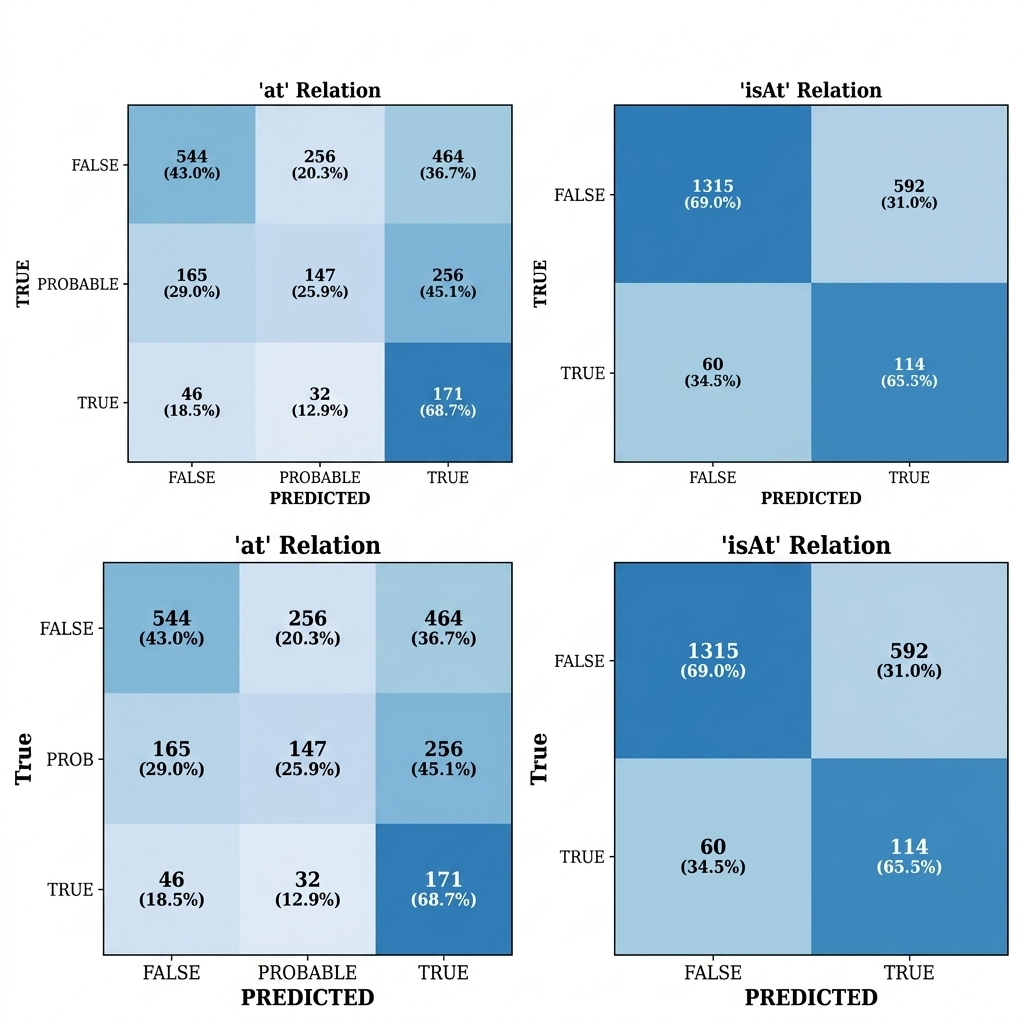
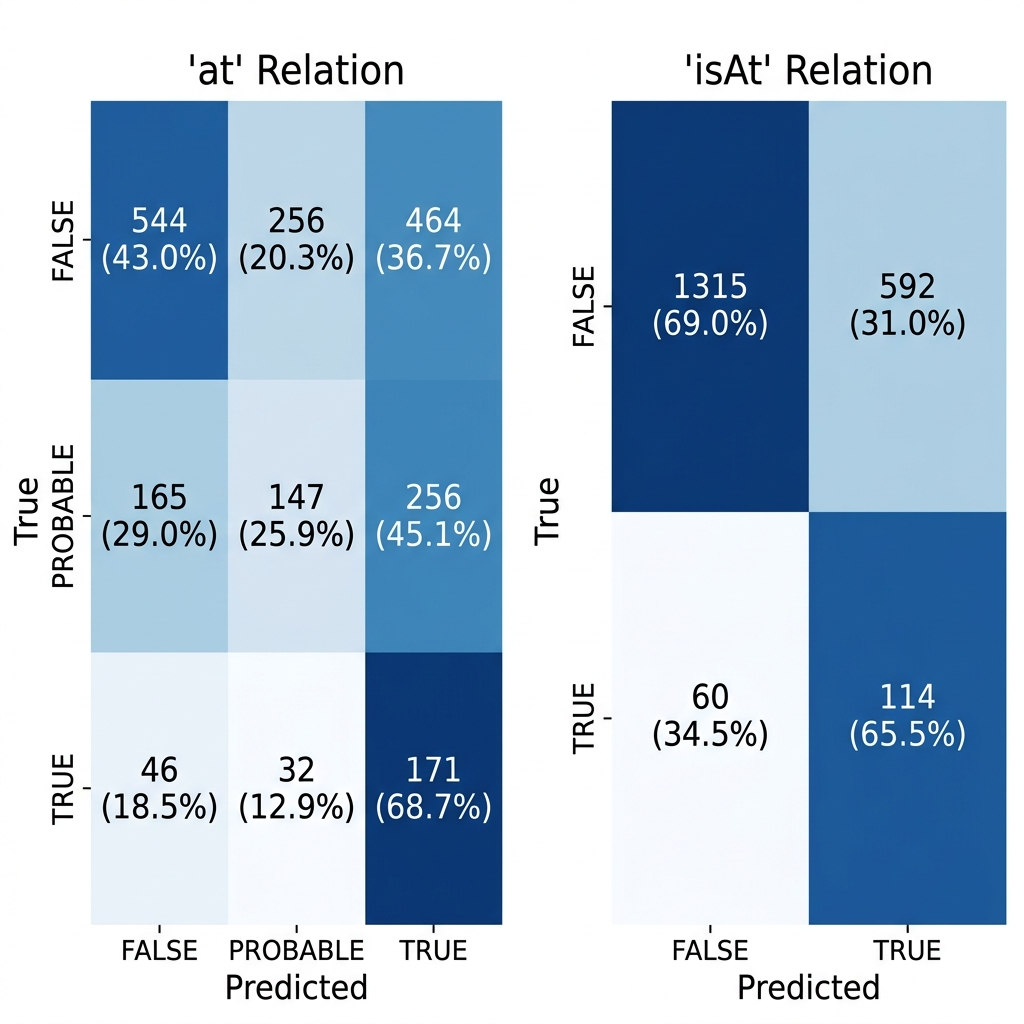
v24: Camera-ready — fix abstract 4.4->4.3%, titlerunning header, acknowledgement wording, rounding disclaimers on all tables, Table 7 epoch explanation, regenerated fig3/fig6 without embedded titles, forward-dated ref note

diff --git a/paper/main.tex b/paper/main.tex
@@ -1,5 +1,5 @@
-% MHIPEX: Multilingual Historical Person-Place Relation Extraction
-% CLEF 2026 Working Notes Ã¢â‚¬â€ LNCS Format
+% MHIPEX: Multilingual Historical Person-Place Relation Extraction
+% CLEF 2026 Working Notes --- LNCS Format
 \documentclass[runningheads]{llncs}
 \usepackage[T1]{fontenc}
 \usepackage{graphicx}
@@ -12,6 +12,7 @@
 \begin{document}
 
 \title{MHIPEX: A Calibrated Transformer Ensemble for\\Multilingual Person--Place Relation Extraction\\in Historical Newspapers}
+\titlerunning{MHIPEX: Calibrated Ensemble for Historical RE}
 
 \author{Aman Jaiswal \and Sarika Jain}
 \authorrunning{Jaiswal and Jain}
@@ -20,7 +21,7 @@
 \maketitle
 
 \begin{abstract}
-This paper presents MHIPEX, a general knowledge-aware framework for person--place relation extraction from multilingual historical newspapers. Evaluated in the context of the CLEF HIPE-2026 shared task, MHIPEX introduces a Relation-Specific Language-Adaptive Ensemble (RLAE) that learns independent mixing weights for each relation type (spatial \texttt{at} vs.\ temporal \texttt{isAt}) and each source language, motivated by the empirical observation that the relative strengths of historically pre-trained BERT (hmBERT) and XLM-RoBERTa differ across both dimensions. RLAE is combined with enriched input representations, multi-sample dropout with dual pooling, class-weighted training, and post-hoc threshold calibration. A Knowledge Graph augmentation experiment reveals a fundamental dichotomy between KG sources: GeoNames maximises spatial recall (\texttt{at} recall +1.2\,pp over text-only) while Wikidata yields the strongest overall MR gain (+0.002 MR), yet every KG source degrades temporal event detection (\texttt{isAt} recall $-$2.0\,pp for GeoNames), directly motivating the decoupled RLAE design. On the HIPE-2026 sandbox development data, MHIPEX with RLAE achieves a macro-recall of 0.5767 (95\% CI: [0.548, 0.604]), a +35.1\% relative improvement over a vanilla mBERT baseline (+4.4\% relative over hmBERT alone) and +0.011 MR over the fixed-weight ensemble. Cross-dataset validation on newspaper v1.0 yields a macro-recall of 0.588, confirming the robustness of the framework for broader multilingual historical relation extraction tasks.
+This paper presents MHIPEX, a general knowledge-aware framework for person--place relation extraction from multilingual historical newspapers. Evaluated in the context of the CLEF HIPE-2026 shared task, MHIPEX introduces a Relation-Specific Language-Adaptive Ensemble (RLAE) that learns independent mixing weights for each relation type (spatial \texttt{at} vs.\ temporal \texttt{isAt}) and each source language, motivated by the empirical observation that the relative strengths of historically pre-trained BERT (hmBERT) and XLM-RoBERTa differ across both dimensions. RLAE is combined with enriched input representations, multi-sample dropout with dual pooling, class-weighted training, and post-hoc threshold calibration. A Knowledge Graph augmentation experiment reveals a fundamental dichotomy between KG sources: GeoNames maximises spatial recall (\texttt{at} recall +1.2\,pp over text-only) while Wikidata yields the strongest overall MR gain (+0.002 MR), yet every KG source degrades temporal event detection (\texttt{isAt} recall $-$2.0\,pp for GeoNames), directly motivating the decoupled RLAE design. On the HIPE-2026 sandbox development data, MHIPEX with RLAE achieves a macro-recall of 0.5767 (95\% CI: [0.548, 0.604]), a +35.1\% relative improvement over a vanilla mBERT baseline (+4.3\% relative over hmBERT alone) and +0.011 MR over the fixed-weight ensemble. Cross-dataset validation on newspaper v1.0 yields a macro-recall of 0.588, confirming the robustness of the framework for broader multilingual historical relation extraction tasks.
 \end{abstract}
 
 \keywords{Historical NLP \and Relation Extraction \and Multilingual Transformers \and Knowledge Graphs \and CLEF HIPE-2026}
@@ -375,7 +376,7 @@ Table~\ref{tab:lang} disaggregates performance by language.
 
 \begin{table}[t]
 \centering
-\caption{Per-language performance of the MHIPEX fixed-$\beta$ ensemble ($\beta=0.60$). RLAE per-language weights are reported separately in Table~\ref{tab:rlae}.}
+\caption{Per-language performance of the MHIPEX fixed-$\beta$ ensemble ($\beta=0.60$). RLAE per-language weights are reported separately in Table~\ref{tab:rlae}. Displayed values are rounded to three decimal places; MR is computed from unrounded per-relation recalls.}
 \label{tab:lang}
 \begin{tabular}{lrccc}
 \toprule
@@ -453,7 +454,7 @@ Beyond architectural components, we explicitly validate two core methodological 
 
 \begin{table}[t]
 \centering
-\caption{Comparison of loss functions on the hmBERT encoder (independent runs, 20 epochs each). Weighted Cross-Entropy yields the strongest overall macro-recall. All differences are within the $\pm$0.003 run-to-run variance of the system, so results are interpreted directionally rather than as statistically significant conclusions. Note: MR values here are from standalone experiments and may differ from the cumulative ablation in Table~\ref{tab:ablation} due to independent random initialization.}
+\caption{Comparison of loss functions on the hmBERT encoder (independent runs, 20 epochs with early stopping). Weighted Cross-Entropy yields the strongest overall macro-recall. All differences are within the $\pm$0.003 run-to-run variance of the system, so results are interpreted directionally rather than as statistically significant conclusions. Note: MR values here are from standalone 20-epoch experiments and differ from the cumulative ablation in Table~\ref{tab:ablation} (which uses 30~max epochs per Table~\ref{tab:hyper}) due to independent random initialization and the shorter training schedule.}
 \label{tab:loss_ablation}
 \begin{tabular}{lccc}
 \toprule
@@ -502,7 +503,7 @@ Table~\ref{tab:rlae} reports the per-language mixing weights learned by RLAE (Eq
 
 \begin{table}[t]
 \centering
-\caption{Learned RLAE parameters per language. $\beta^{(r)}_\ell$ denotes the hmBERT weight for relation $r$ in language $\ell$. We note that English weights are estimated on a very small sample (151 development pairs) and should be interpreted with appropriate caution until validated on additional datasets.}
+\caption{Learned RLAE parameters per language. $\beta^{(r)}_\ell$ denotes the hmBERT weight for relation $r$ in language $\ell$. Displayed values are rounded to four decimal places; MR is computed from unrounded per-relation recalls. English weights are estimated on a very small sample (151 development pairs) and should be interpreted with appropriate caution until validated on additional datasets.}
 \label{tab:rlae}
 \begin{tabular}{lcccc}
 \toprule
@@ -539,7 +540,7 @@ We conduct leave-one-language-out experiments: training on two languages and eva
 
 \begin{table}[t]
 \centering
-\caption{Cross-dataset and cross-lingual validation results using hmBERT with enriched v12 input. ``Reference'' denotes the standard sandbox train/dev setting.}
+\caption{Cross-dataset and cross-lingual validation results using hmBERT with enriched v12 input. ``Reference'' denotes the standard sandbox train/dev setting. All displayed MR values are computed from unrounded per-relation recalls; apparent column-arithmetic discrepancies of $\pm$0.001 are rounding artifacts.}
 \label{tab:crossval}
 \begin{tabular}{llccc}
 \toprule
@@ -657,7 +658,7 @@ Our error analysis attributes 28\% of failures to OCR corruption. To quantify th
 
 \begin{table}[t]
 \centering
-\caption{OCR noise robustness experiment (hmBERT encoder, independent run). Each configuration varies whether training data and/or development data received synthetic character-level OCR corruption (8\% word-level noise probability). R0 is a standalone hmBERT run comparable to---but independent from---the baseline in Table~\ref{tab:main}; minor differences in MR reflect independent random initialization, consistent with the $\pm$0.003 run-to-run variance reported in Section~\ref{sec:results}.}
+\caption{OCR noise robustness experiment (hmBERT encoder, independent run). Each configuration varies whether training data and/or development data received synthetic character-level OCR corruption (8\% word-level noise probability). R0 is a standalone hmBERT run comparable to---but independent from---the baseline in Table~\ref{tab:main}; minor differences in MR reflect independent random initialization, consistent with the $\pm$0.003 run-to-run variance reported in Section~\ref{sec:results}. Displayed MR values are computed from unrounded per-relation recalls.}
 \label{tab:ocr}
 \begin{tabular}{llccc}
 \toprule
@@ -690,7 +691,7 @@ The results reveal two key findings. First, OCR corruption degrades performance 
 \label{sec:conclusion}
 %================================================================
 
-We have presented MHIPEX, a general framework for person--place relation extraction from multilingual historical newspapers. Evaluated within the rigorous CLEF HIPE-2026 shared task setting, our findings suggest that multilingual transformers effectively model these complex relations (RQ1) and that input enrichment with date and language tokens provides consistent gains (RQ2). Furthermore, combining hmBERT and XLM-R yields complementary improvements (RQ3), though the ambiguous \textsc{probable} class remains the primary bottleneck (RQ4). Most significantly, our proposed Relation-Specific Language-Adaptive Ensemble (RLAE) outperforms the fixed-weight ensemble by +0.011~MR, confirming that conditional adaptive fusion is highly beneficial (RQ5). Overall, MHIPEX-RLAE achieves a macro-recall of 0.5767 (95\% CI: $[0.548, 0.604]$) on the sandbox development data---a 35.1\% relative improvement over mBERT and a 4.4\% relative improvement over the calibrated hmBERT single model---and suggests its broad applicability with a domain transfer MR of 0.588 on newspaper v1.0.
+We have presented MHIPEX, a general framework for person--place relation extraction from multilingual historical newspapers. Evaluated within the rigorous CLEF HIPE-2026 shared task setting, our findings suggest that multilingual transformers effectively model these complex relations (RQ1) and that input enrichment with date and language tokens provides consistent gains (RQ2). Furthermore, combining hmBERT and XLM-R yields complementary improvements (RQ3), though the ambiguous \textsc{probable} class remains the primary bottleneck (RQ4). Most significantly, our proposed Relation-Specific Language-Adaptive Ensemble (RLAE) outperforms the fixed-weight ensemble by +0.011~MR, confirming that conditional adaptive fusion is highly beneficial (RQ5). Overall, MHIPEX-RLAE achieves a macro-recall of 0.5767 (95\% CI: $[0.548, 0.604]$) on the sandbox development data---a 35.1\% relative improvement over mBERT and a 4.3\% relative improvement over the calibrated hmBERT single model---and suggests its broad applicability with a domain transfer MR of 0.588 on newspaper v1.0.
 
 The RLAE analysis reveals a key insight: while spatial relations (\texttt{at}) consistently prefer hmBERT across all languages, the optimal encoder for temporal relations (\texttt{isAt}) varies by language---English favors hmBERT ($\beta=0.70$) while French and German favor XLM-R ($\beta \leq 0.35$). This pattern was predicted by our Knowledge Graph experiment, which demonstrated that Wikidata yields the strongest overall MR gain (+0.002) while GeoNames maximises spatial recall (+1.2\,pp) but causes the most severe temporal degradation ($-$2.0\,pp). These findings validate the hypothesis raised in Section~\ref{sec:related} that XLM-R's broader world knowledge contributes complementary reasoning capabilities for the knowledge-intensive \texttt{at} relation, as confirmed by both the KG augmentation results and the RLAE weights (French and German \texttt{isAt} routing 65--70\% of weight to XLM-R).
 
@@ -698,7 +699,7 @@ Future work should explore more sophisticated knowledge-grounded architectures--
 
 \subsection*{Acknowledgements}
 
-This work was conducted under the supervision of Dr.~Sarika Jain at the National Institute of Technology Kurukshetra, India. We thank the HIPE-2026 organizers for providing the dataset and evaluation framework.
+The first author thanks Dr.~Sarika Jain for her guidance throughout this research. We thank the HIPE-2026 organizers for providing the dataset and evaluation framework.
 
 %================================================================
 % REFERENCES
@@ -709,7 +710,7 @@ This work was conducted under the supervision of Dr.~Sarika Jain at the National
 \bibitem{opitz2026}
 Opitz, J., Racl\'e, C., Boros, E., Michail, A., Romanello, M., Ehrmann, M., Clematide, S.:
 CLEF HIPE-2026: Evaluating Accurate and Efficient Person--Place Relation Extraction from Multilingual Historical Texts.
-In: Advances in Information Retrieval, ECIR 2026. LNCS, Springer (2026)
+In: Advances in Information Retrieval, ECIR 2026. LNCS, Springer (2026, to appear)
 
 \bibitem{ehrmann2022}
 Ehrmann, M., Romanello, M., Fl\"uckiger, A., Clematide, S.: